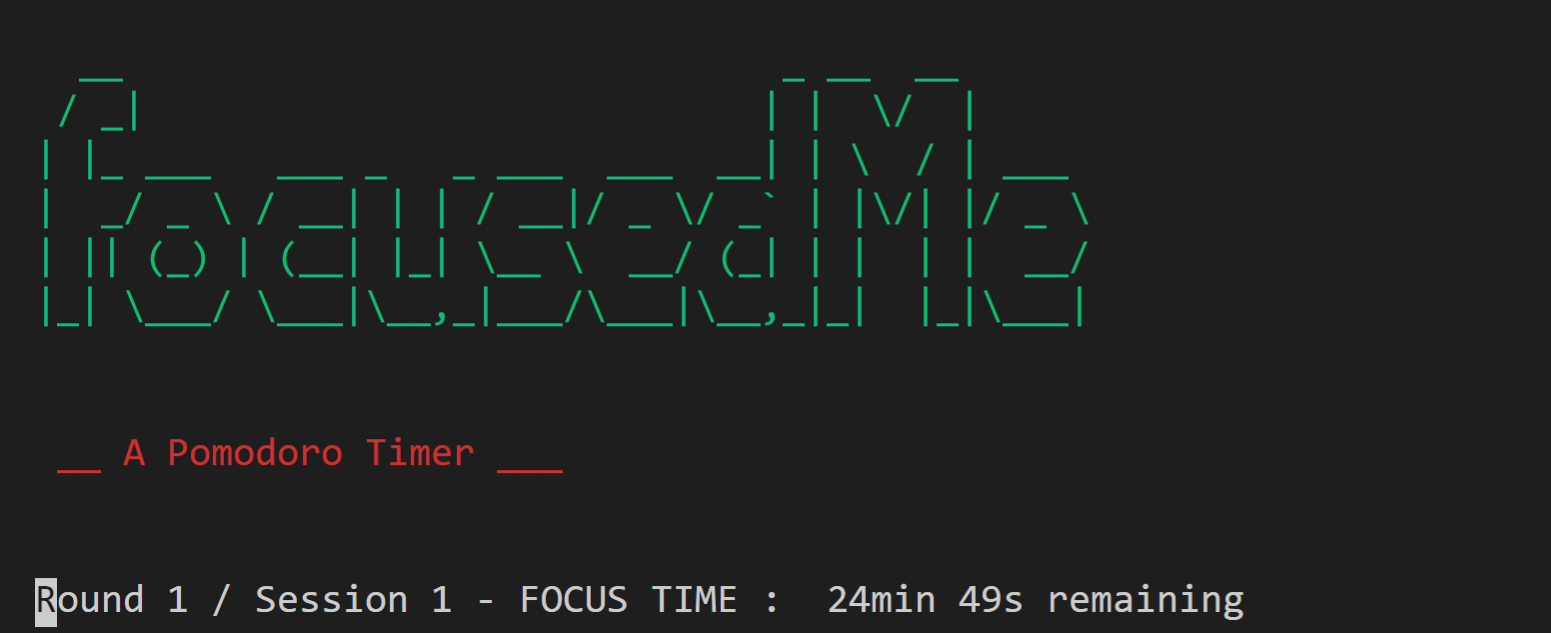
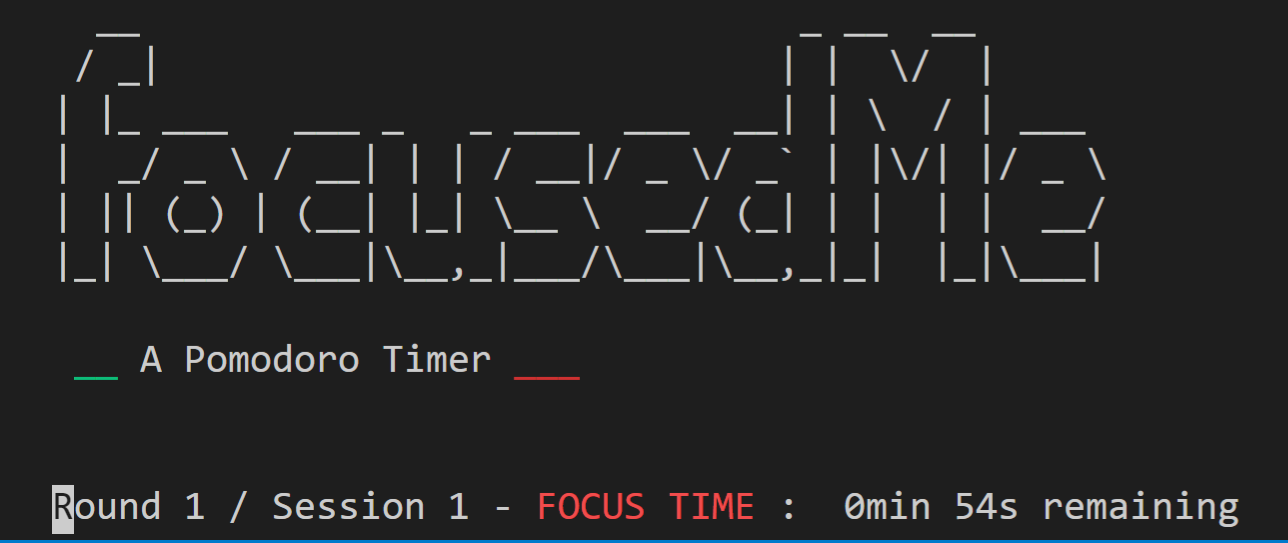
add colors

diff --git a/focusedme/__main__.py b/focusedme/__main__.py
@@ -17,10 +17,9 @@ from timeit import default_timer
 from dataclasses import dataclass
 from playsound import playsound
 
-# sys.path.append(".") TODO refactoring
-# sys.path.append("..")
-from util import Colors, in_app_path  # noqa: E402
-
+sys.path.append(".")
+sys.path.append("focusedme")
+from util import in_app_path  # noqa: E402
 
 BANNER = r"""
   __                              _ __  __
@@ -51,6 +50,34 @@ SOUND = True
 class View:
     """class responsible for user interaction through terminal."""
 
+    @classmethod
+    def getColor(cls, color):
+        """ Print fore ground colors in terminal
+        use reset value to cancel all colors
+        """
+
+        dict_color = {
+            "reset": "\033[0m",
+            "bold": "\033[01m",
+            "black": "\033[30m",
+            "red": "\033[31m",
+            "green": "\033[32m",
+            "orange": "\033[33m",
+            "blue": "\033[34m",
+            "purple": "\033[35m",
+            "cyan": "\033[36m",
+            "lightgrey": "\033[37m",
+            "darkgrey": "\033[90m",
+            "lightred": "\033[91m",
+            "lightgreen": "\033[92m",
+            "yellow": "\033[93m",
+            "lightblue": "\033[94m",
+            "pink": "\033[95m",
+            "lightcyan": "\033[96m",
+        }
+
+        return dict_color[color]
+
     def __format_time(self, remainder):
         """Method that receives timer info and format to present
         in the terminal.
@@ -64,9 +91,30 @@ class View:
     def ring_bell(cls):
         playsound(in_app_path("Ring01.wav"))
 
+    def __get_colore_type(self, stype):
+        """return the type string with the chosen color"""
+        colored_type = stype
+        if stype == "FOCUS TIME":
+            colored_type = (
+                self.getColor("lightred") + stype + self.getColor("reset")
+            )
+        elif stype == "SHORT BREAK":
+            colored_type = (
+                self.getColor("lightgreen") + stype + self.getColor("reset")
+            )
+        elif stype == "LONG BREAK":
+            colored_type = (
+                self.getColor("lightblue") + stype + self.getColor("reset")
+            )
+        return colored_type
+
     def show_time(self, remainder, num_round, num_session, type_session):
         """ show timer countdown in terminal. Receives the remainder time
         for the session and print progress for the user"""
+
+        colored_type = self.__get_colore_type(
+            type_session.replace("_", " ").upper()
+        )  # noqa E501
 
         print(
             "Round",
@@ -75,7 +123,7 @@ class View:
             "Session",
             num_session,
             "-",
-            type_session.replace("_", " ").upper(),
+            colored_type,
             ": ",
             self.__format_time(remainder),
             end="",
@@ -87,9 +135,9 @@ class View:
         """ create text from logged data and return it to be plotted to user
         in the terminal """
 
-        print(Colors.fg.green)
+        print(self.getColor("green"))
         print(RESULTS)
-        print(Colors.reset)
+        print(self.getColor("reset"))
 
         for dt in logged_data:
             if "Round" in dt:
@@ -352,11 +400,18 @@ class Log:
 def main():
     """ parse cli arguments and start sequence of object calls"""
 
-    print(Colors.fg.green, "")
     print(BANNER, "\n")
-    print(Colors.reset, "")
 
-    print(Colors.fg.red + " __ A Pomodoro Timer ___" + Colors.reset + "\n\n")
+    print(
+        View.getColor("green")
+        + " __ "
+        + View.getColor("reset")
+        + "A Pomodoro Timer"
+        + View.getColor("red")
+        + " ___"
+        + View.getColor("reset")
+        + "\n\n"
+    )
     parser = argparse.ArgumentParser(
         description="Welcome to the focusedMe app. Start your Pomodoro timer"
         " and enjoy the focus! (Stop it with Ctrl+c)",

diff --git a/focusedme/util.py b/focusedme/util.py
@@ -8,55 +8,6 @@ import os
 import time
 
 
-# Python program to print
-# colored text and background
-class Colors:
-    """ Class proposed in https://www.geeksforgeeks.org/
-    print-colors-python-terminal/
-    Reset all colors with colors.reset;
-    Two sub classes fg for foreground and bg for background;
-    use as colors.subclass.colorname.
-    i.e. colors.fg.red or colors.bg.greenalso, the generic bold, disable,
-    underline, reverse, strike through,
-    and invisible work with the main class i.e. colors.bold
-    """
-
-    reset = "\033[0m"
-    bold = "\033[01m"
-    disable = "\033[02m"
-    underline = "\033[04m"
-    reverse = "\033[07m"
-    strikethrough = "\033[09m"
-    invisible = "\033[08m"
-
-    class fg:
-        black = "\033[30m"
-        red = "\033[31m"
-        green = "\033[32m"
-        orange = "\033[33m"
-        blue = "\033[34m"
-        purple = "\033[35m"
-        cyan = "\033[36m"
-        lightgrey = "\033[37m"
-        darkgrey = "\033[90m"
-        lightred = "\033[91m"
-        lightgreen = "\033[92m"
-        yellow = "\033[93m"
-        lightblue = "\033[94m"
-        pink = "\033[95m"
-        lightcyan = "\033[96m"
-
-    class bg:
-        black = "\033[40m"
-        red = "\033[41m"
-        green = "\033[42m"
-        orange = "\033[43m"
-        blue = "\033[44m"
-        purple = "\033[45m"
-        cyan = "\033[46m"
-        lightgrey = "\033[47m"
-
-
 def every(delay, task):
     next_time = time.time() + delay
     while True:
